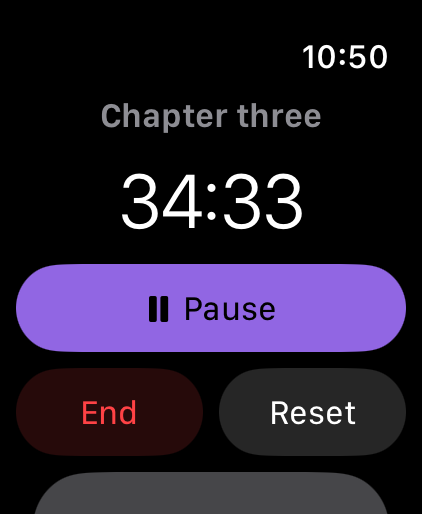
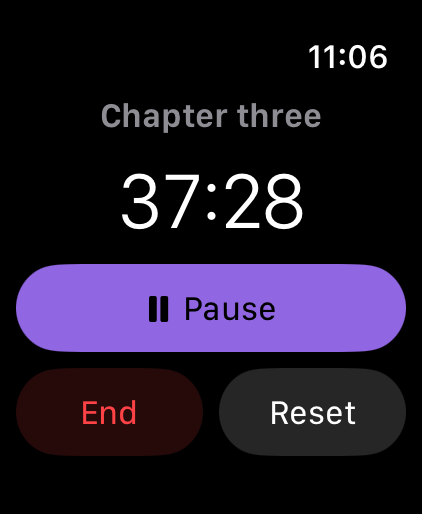
Recapture the stopwatch, Timer and Watch gallery images with the new layouts

diff --git a/docs/gallery/overview.html b/docs/gallery/overview.html
@@ -12,7 +12,7 @@
 <body>
 <main class="canvas">
   <header><div class="brand"><img class="brand-mark" src="../../App/Assets.xcassets/AppIcon.appiconset/AppIcon-Dark.png" alt="">SimpleTimer</div><p>iPhone · Apple Watch · Mac</p></header>
-  <section class="col first"><h1>Time it, or let it run.</h1><div class="phone"><img src="../release-images/stopwatch.png" alt="Stopwatch mode on iPhone: a Deep Work session named Chapter three, 34 minutes in"></div></section>
+  <section class="col first"><h1>Time it, or let it run.</h1><div class="phone"><img src="../release-images/stopwatch.png" alt="Stopwatch mode on iPhone: a Deep Work session named Chapter three, 37 minutes in"></div></section>
   <section class="col second"><h2>A clearer picture.</h2><div class="phone"><img src="../release-images/activity.png" alt="Sample Activity week with 20 hours 15 minutes, 56 sessions, 91 percent completed and a 17 day streak"></div></section>
   <section class="side">
     <h2>In your menu bar.</h2>
